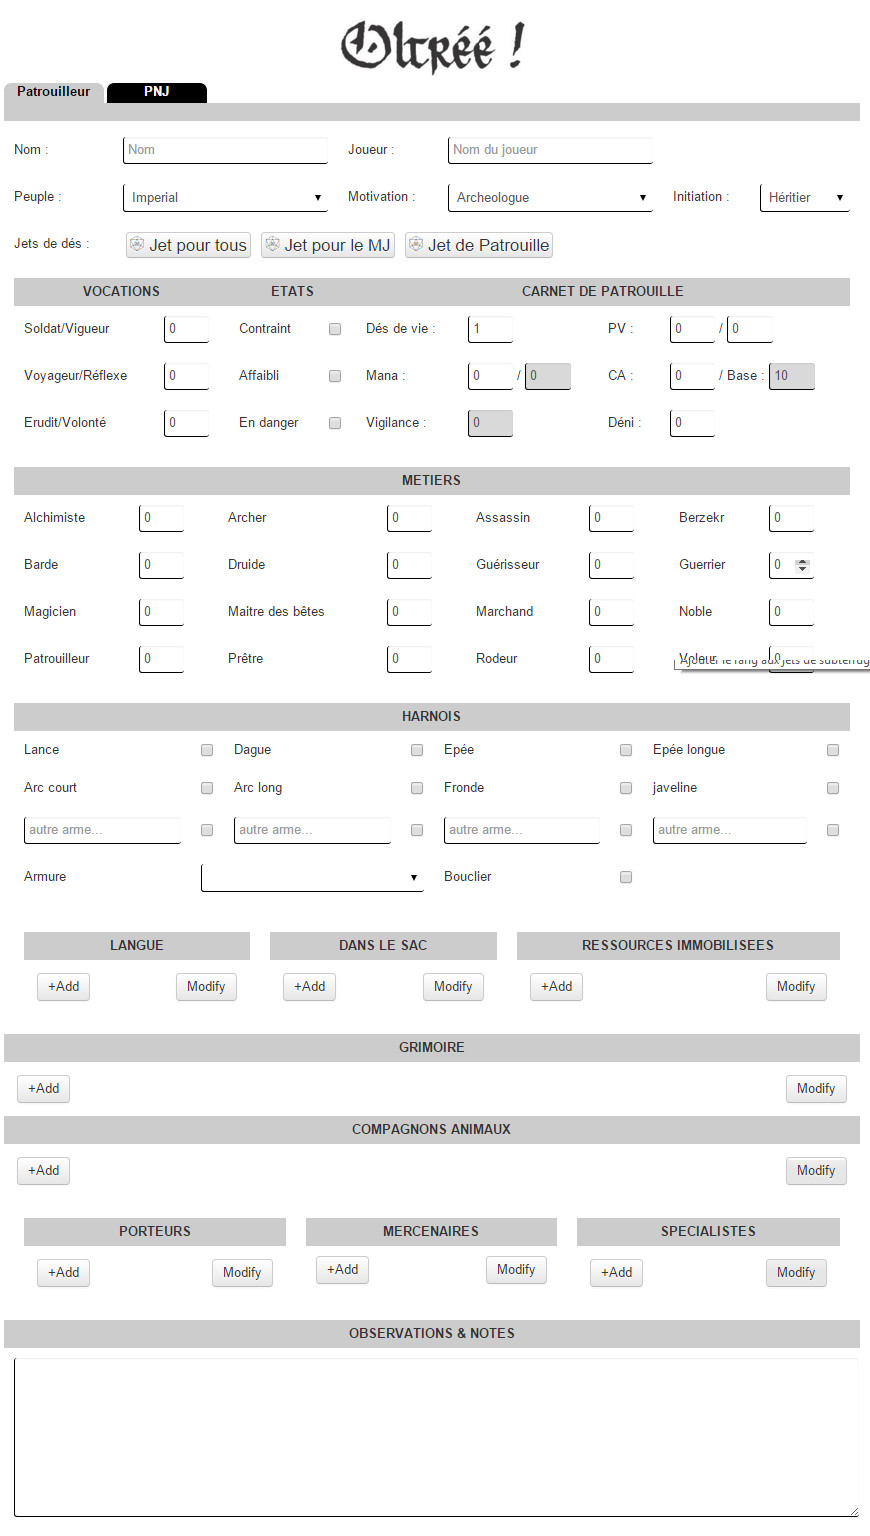
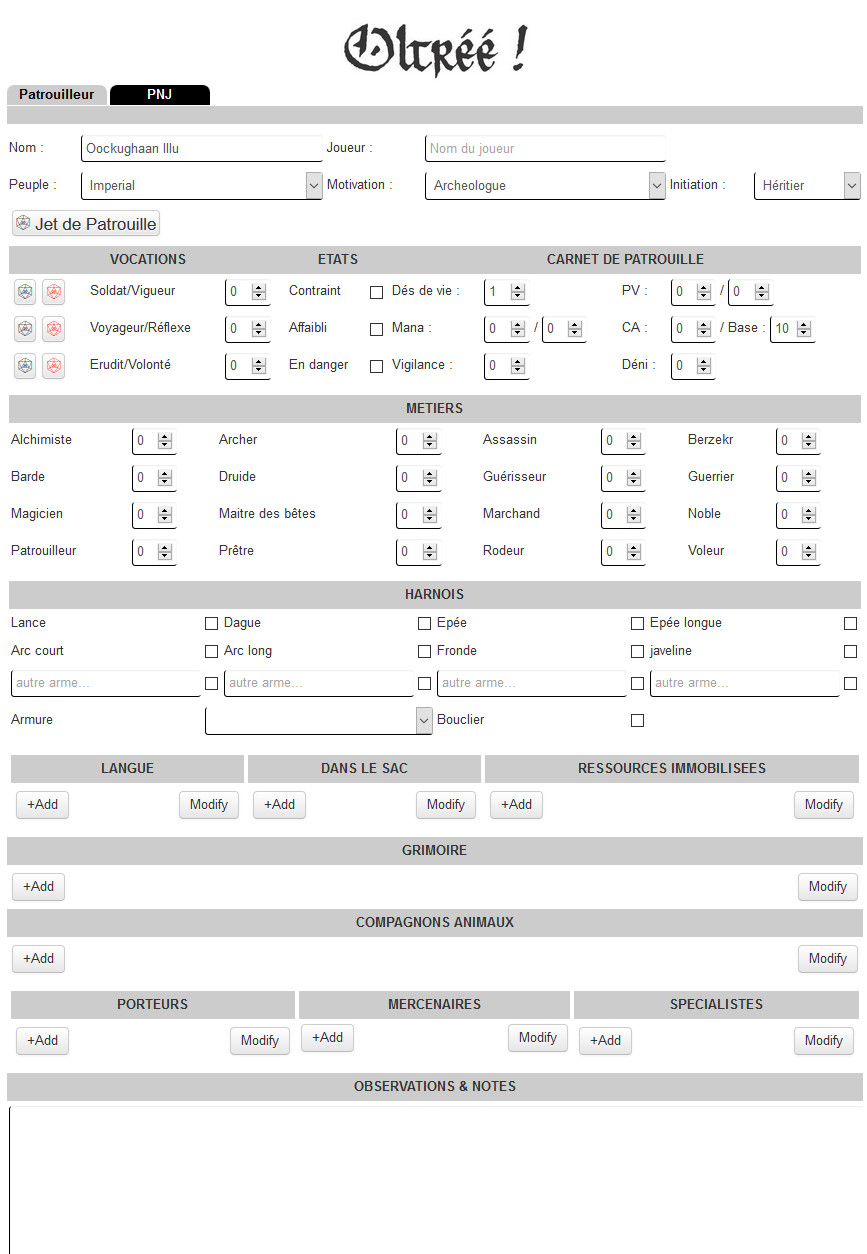
Petites modifs

Changed region(s): [[0.0, 0.0, 1.0, 0.8708], [0.436, 0.7775, 0.5606, 0.8086], [0.1246, 0.7775, 0.218, 0.8086]]

diff --git a/Oltree-FR/oltree.html b/Oltree-FR/oltree.html
@@ -610,14 +610,12 @@
                         <input type="text" placeholder="Créature" name="attr_pnj_creature" />
                     </td>
                 </tr>
-
-
                 <tr>        
                     <td colspan="4">
                         <table>
                             <tr>
                                 <th colspan="2">ETATS</th>
-                                <th colspan="4">INFORMATIONS</th>
+                                <th colspan="2">INFORMATIONS</th>
                             </tr>
                             <tr>
                                 <td>
@@ -633,14 +631,7 @@
                                     <input type="number" name="attr_pnj_dv" value="1"/> 
                                     Bonus : 
                                     <input type="number" name="attr_pnj_bonus_dv" value="0"/> 
-                                </td>
-                                <td>
-                                    PV :
-                                </td>
-                                <td>
-                                    <input type="number" name="attr_pnj_pv" value="0"/> / <input type="number" name="attr_pnj_pv_max" value="0" title="1D8 par DV + Bonus" />
-                                </td>
-                                
+                                </td>                                
                             </tr>
                             <tr>
                                 <td>
@@ -663,6 +654,12 @@
                                 <td>
                                     <input type="checkbox" name="attr_pnj_en_danger" value="1" title="-2 à la CA. -2 aux jets de reflexes" />
                                 </td>
+                                <td>
+                                    PV :
+                                </td>
+                                <td>
+                                    <input type="number" name="attr_pnj_pv" value="0"/> / <input type="number" name="attr_pnj_pv_max" value="0" title="1D8 par DV + Bonus" />
+                                </td>                                
                             </tr>
                         </table>
                     </td>

diff --git a/Oltree-FR/Oltree.css b/Oltree-FR/Oltree.css
@@ -2,7 +2,7 @@
     width: 100%;
 }
 .charsheet td {
-    padding: 10px;  
+    padding: 5px 2px 5px 2px;  
     border: 0 solid #000;
     vertical-align: text-top;
 }
